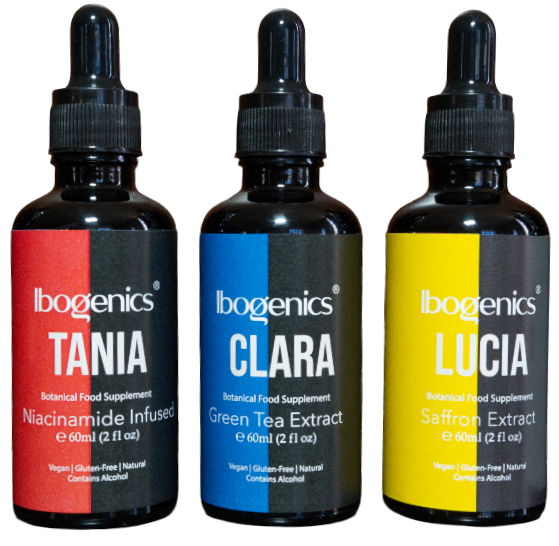
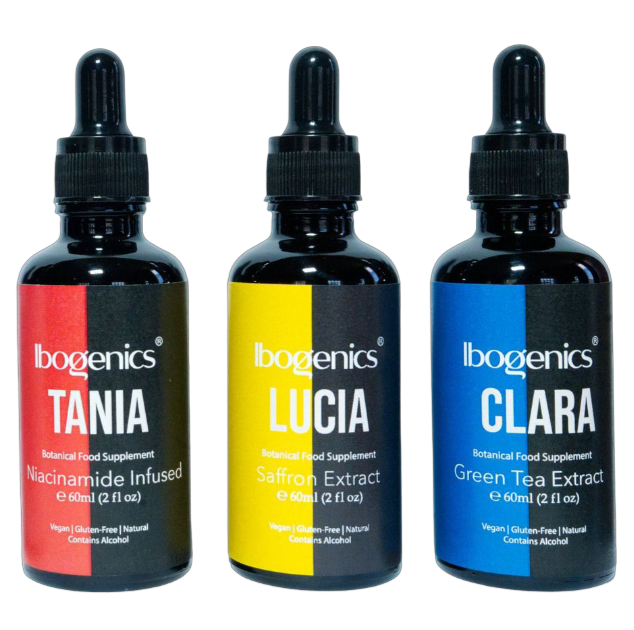
//newChanges
-Bottles Image
-Shopping Cart

diff --git a/vite-project/src/components/HeroWithVideo.jsx b/vite-project/src/components/HeroWithVideo.jsx
@@ -37,36 +37,32 @@ export default function HeroWithVideo() {
               Your body has a built-in calm switch—the vagus nerve—that helps you settle after everyday
 stress. A simple ritual with Meso can support a more balanced, relaxed state over time.
             </p>
+           <ul className="mt-8 space-y-4">
+  <li className="flex items-center">
+    <img src="/icon_sparkles.png" alt="Feel calmer" className="w-15 h-15 mr-3" />
+    <div>
+      <p className="font-semibold" style={{ color: "var(--brand)" }}>Feel calmer, fast</p>
+      <p className="text-gray-600 text-sm">Within the hour.*</p>
+    </div>
+  </li>
 
-            <ul className="mt-8 ">
-              <li className="flex items-start ">
-                <img src="/icon_sparkles.png" alt="Feel calmer" className="w-25 h-25 inline-block align-center" />
-                <div>
-                  <p className="font-semibold mt-7"
-                   style={{ color: "var(--brand)" }}>Feel calmer, fast</p>
-                  <p className="text-gray-600 text-sm">Within the hour.*</p>
-                </div>
-              </li>
+  <li className="flex items-center">
+    <img src="/icon_moon.png" alt="Ease stress" className="w-15 h-15 mr-3" />
+    <div>
+      <p className="font-semibold" style={{ color: "var(--brand)" }}>Ease everyday stress</p>
+      <p className="text-gray-600 text-sm">Use anywhere, any time.</p>
+    </div>
+  </li>
 
-              <li className="flex items-start ">
-                <img src="/icon_moon.png" alt="Feel calmer" className="w-25 h-25 inline-block align-center" />
-                <div>
-                  <p className="font-semibold mt-7 "
-                   style={{ color: "var(--brand)" }}>Ease everyday stress</p>
-                  <p className="text-gray-600 text-sm">Use anywhere, any time.</p>
-                </div>
-              </li>
+  <li className="flex items-center">
+    <img src="/icon_sun.png" alt="Better rest" className="w-15 h-15 mr-3" />
+    <div>
+      <p className="font-semibold" style={{ color: "var(--brand)" }}>Wind down for better rest</p>
+      <p className="text-gray-600 text-sm">No sleeping pills, no grogginess.</p>
+    </div>
+  </li>
+</ul>
 
-              <li className="flex items-start ">
-                <img src="/icon_sun.png" alt="Feel calmer" className="w-25 h-25 inline-block align-center" />
-
-                <div>
-                  <p className="font-semibold mt-7"
-                   style={{ color: "var(--brand)" }}>Wind down for better rest</p>
-                  <p className="text-gray-600 text-sm">No sleeping pills, no grogginess.</p>
-                </div>
-              </li>
-            </ul>
                  <div>
                   <p className="text-gray-600 mt-7 text-sm">* Results and timing vary. For general wellness; not intended to diagnose, treat, cure, or
 prevent any disease.</p>

diff --git a/vite-project/src/Pages/CheckOutPage.jsx b/vite-project/src/Pages/CheckOutPage.jsx
@@ -9,15 +9,19 @@ const STRIPE_ENDPOINT = "https://ibogenics.com/backend/api/create-checkout-sessi
 
 const countries = [
   { code: "", name: "Choose..." },
-  { code: "PT", name: "Portugal" },
-  { code: "ES", name: "Spain" },
-  { code: "FR", name: "France" },
+  { code: "AU", name: "Australia" },
+  { code: "BR", name: "Brazil" },
+  { code: "CA", name: "Canada" },
+  { code: "CR", name: "Costa Rica" },
   { code: "DE", name: "Germany" },
+  { code: "MX", name: "Mexico" },
   { code: "NL", name: "Netherlands" },
-  { code: "IT", name: "Italy" },
-  { code: "IE", name: "Ireland" },
-  { code: "GB", name: "United Kingdom" },
+  { code: "NZ", name: "New Zealand" },
+  { code: "PT", name: "Portugal" },
+  { code: "ZA", name: "South Africa" },
+  { code: "UY", name: "Uruguay" },
 ];
+
 
 export default function CheckoutPage() {
   const navigate = useNavigate();
@@ -278,6 +282,12 @@ export default function CheckoutPage() {
                     <label className="block text-sm font-medium text-gray-700">
                       Country *
                     </label>
+
+                    {/* subtle helper text */}
+                    <p className="text-sm text-gray-500 mb-2">
+                      If you don’t see your location listed, send us a quick message and we’ll try to sort it out.
+                    </p>
+
                     <select
                       name="country"
                       value={form.country}
@@ -292,12 +302,12 @@ export default function CheckoutPage() {
                         </option>
                       ))}
                     </select>
+
                     {errors.country && (
-                      <p className="text-xs text-red-500 mt-1">
-                        {errors.country}
-                      </p>
+                      <p className="text-xs text-red-500 mt-1">{errors.country}</p>
                     )}
                   </div>
+
                 </div>
               </div>
 

diff --git a/vite-project/src/components/PromoBanner.jsx b/vite-project/src/components/PromoBanner.jsx
@@ -17,11 +17,10 @@ export default function PromoBanner() {
         <div
           className="
             absolute
-            left-1/2 top-0 -translate-x-1/2 -translate-y-20
-            sm:left-10 sm:translate-x-10 sm:-translate-y-6
+            left-1/2 top-0 -translate-x-1/2 -translate-y-11
+            sm:left-10 sm:translate-x-10 sm:-translate-y-10
           "
         >
-          
           <img
             src={bottles}
             alt="Sensate Device"
